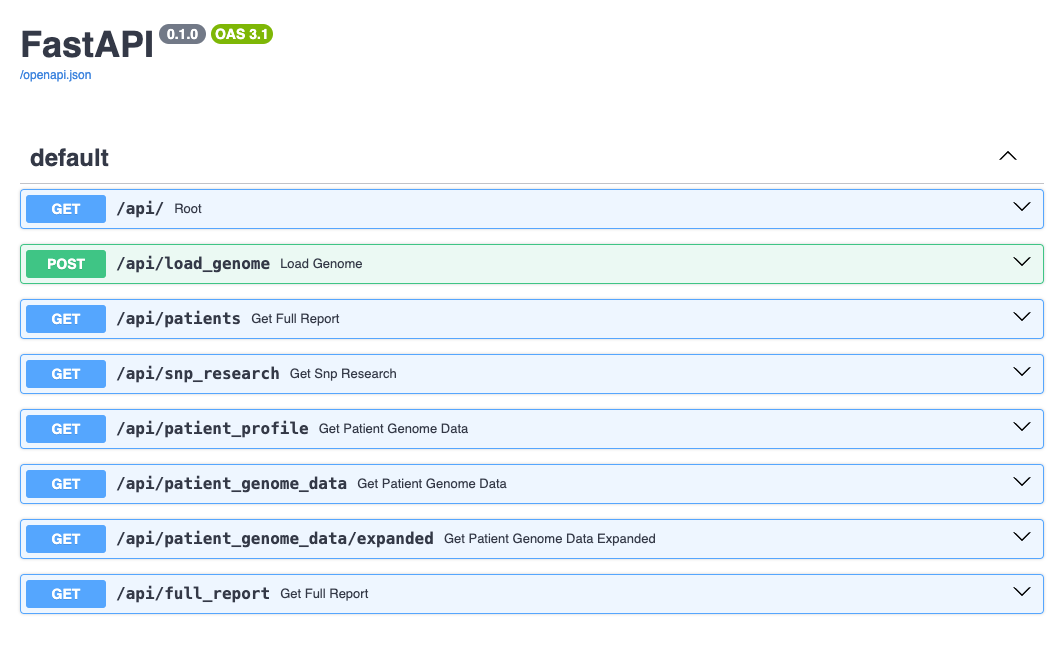
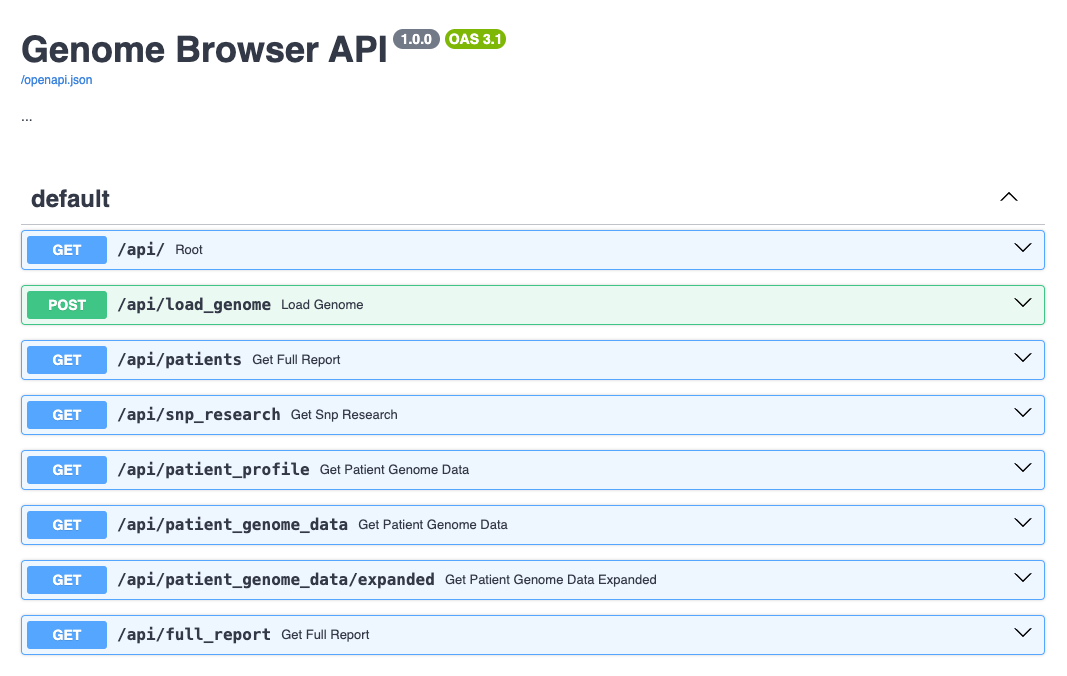
Tidied the Readme

Changed region(s): [[0.0, 0.2157, 0.9934, 0.9861], [0.0, 0.0308, 0.4967, 0.1233], [0.9313, 0.2773, 0.9624, 0.3082]]

diff --git a/src/routes.py b/src/routes.py
@@ -68,18 +68,39 @@ genome_browser = GenomeBrowser(
 
 @router.get("/")
 def root():
+    """
+        Return a welcome message for the Genome Browser API.
+
+        - **content**: A dictionary containing the welcome message.
+
+        Returns:
+        - **JSONResponse**: With a welcome message.
+    """
     return JSONResponse(content={"Genome Browser API": "Welcome to Genome Browser API"})
 
 # Patient Genome: /patient
 
 @router.post("/load_genome")
 def load_genome(genome_file_name_with_path: Optional[str] = Query(None)): 
+    """
+        Load a genome file in the background.
+        
+        - **genome_file_name_with_path**: Optional; The path to the genome file to be loaded.
+
+        Returns:
+        - **JSONResponse**: Indicating that genome loading has commenced and the path to the genome file.
+    """
     threading.Thread(target=load_genome_background, args=(genome_file_name_with_path,)).start()
     return JSONResponse(content={"message": "Genome loading commenced", "genome_file_name_with_path": genome_file_name_with_path})
 
 # Notify UI or log the completion of data loading activity
 @router.websocket("/ws")
 async def websocket_endpoint(websocket: WebSocket): 
+    """
+        WebSocket endpoint for real-time communication.
+
+        - **Websocket**: The WebSocket connection instance.
+    """
     await websocket.accept()
     try:
         while True:
@@ -94,6 +115,14 @@ async def websocket_endpoint(websocket: WebSocket):
 
 @router.get("/patients")
 def get_full_report():
+    """
+        Retrieve the full report of patients.
+
+        - **full_report**: A JSON object containing the full report of patients.
+
+        Returns:
+        - **JSONResponse**: A response object containing the full report in JSON format.
+    """
     full_report = genome_browser.fetch_patients()
     return JSONResponse(content=full_report)
 
@@ -105,20 +134,60 @@ def fetch_data(fetch_method: Callable, **kwargs) -> Any:
 
 @router.get("/snp_research")
 def get_snp_research(variant_id: Optional[str] = None):
+    """
+        Retrieve SNP research data.
+
+        - **variant_id**: An optional string representing the variant ID.
+
+        Returns:
+        - **JSONResponse**: Containing SNP research data.
+    """
     return JSONResponse(content=fetch_data(genome_browser.fetch_all_snp_pairs, variant_id=variant_id))
 
 @router.get("/patient_profile")
 def get_patient_genome_data(patient_id: Optional[str] = None):
+    """
+        Retrieve genome data for a specific patient.
+
+        - **patient_id**: An optional string representing the ID of the patient whose genome data is to be fetched.
+
+        Returns:
+        - **JSONResponse**: Containing the patient's genome data.
+    """
     return JSONResponse(content=fetch_data(fetch_method=genome_browser.fetch_patient_profile, patient_id=patient_id))
 
 @router.get("/patient_genome_data")
 def get_patient_genome_data(patient_id: Optional[str] = None, variant_id: Optional[str] = None):
+    """
+        Retrieve genome data for a specific patient and variant.
+
+        - **patient_id**: The ID of the patient whose genome data is to be retrieved.
+        - **variant_id**: The ID of the variant to filter the genome data.
+
+        Returns:
+        - **JSONResponse**: Containing the genome data.
+    """
     return JSONResponse(content=fetch_data(fetch_method=genome_browser.fetch_patient_genome_data, patient_id=patient_id, variant_id=variant_id))
 
 @router.get("/patient_genome_data/expanded")
 def get_patient_genome_data_expanded(patient_id: Optional[str] = None, variant_id: Optional[str] = None):
+    """
+        Retrieve expanded genome data for a patient.
+
+        - **patient_id**: An optional ID of the patient whose genome data is to be retrieved.
+        - **variant_id**: An optional ID of the variant to filter the genome data.
+    """
     return JSONResponse(content=fetch_data(genome_browser.fetch_patient_data_expanded, patient_id=patient_id, variant_id=variant_id))
 
 @router.get("/full_report")
 def get_full_report(patient_id: Optional[str] = None, variant_id: Optional[str] = None):
+    """
+        Retrieve the full report for a specific patient and variant.
+
+        - **patient_id**: Optional; The ID of the patient for whom the report is to be fetched.
+        - **variant_id**: Optional; The ID of the variant for which the report is to be fetched.
+
+        Returns:
+        - **JSONResponse**: Containing the full report data.
+    """
     return JSONResponse(content=fetch_data(genome_browser.fetch_full_report, patient_id=patient_id, variant_id=variant_id))

diff --git a/src/main.py b/src/main.py
@@ -3,7 +3,11 @@ import uvicorn
 from routes import router
 
 # Routing
-app = FastAPI()
+app = FastAPI(
+    title="Genome Browser API",
+    description="...",
+    version="1.0.0"
+)
 app.include_router(router, prefix="/api")
 
 # Enable Swagger UI

diff --git a/README.md b/README.md
@@ -44,7 +44,7 @@ There are several options:
 
 ### Swagger
 
-Browse to: `http://127.0.0.1:8000/docs`
+Browse to: `http://127.0.0.1:8000/docs` or `http://127.0.0.1:8000/redoc`.
 
 ![Swagger](./assets/endpoints_swagger.png)
 
@@ -63,7 +63,7 @@ How to run the tests:
 
 ## Testing Details
 
-### Unit Tests
+### Unit Tests
 
 The `test` directory contains `pytest` test cases for the `GenomeBrowser` class methods, which include both positive and negative scenarios, as well as exception handling.
 
